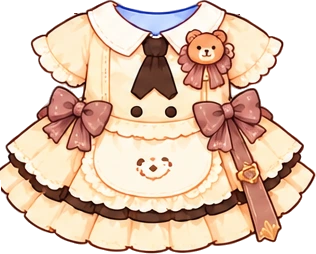
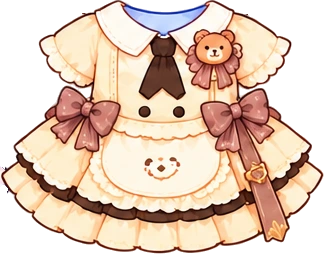
Remove pink heart and blue rose sets; fix bear maid left skirt
Claude-Session: https://claude.ai/code/session_01R3m8MAFkhgnU4D5f6BKp5W

diff --git a/index.html b/index.html
@@ -901,7 +901,7 @@ DISHES.forEach(function(d){ for(var st=1;st<=3;st++){ var x=STAR_X[st];
 var SHOP = [];
 /* 이미지로 만든 아이템: {id,name,slot,tier,cost,file:'assets/items/id.webp',box:[x,y,w,h]} 를 여기에 추가하면
    뽑기·꾸미기·도감에 자동으로 들어가요. box는 캔버스(640x520) 좌표, vb는 box 와 같아요. */
-var IMG_ITEMS = [{"id": "ribbon", "name": "빨간 리본", "slot": "side", "tier": 0, "cost": 8, "file": "assets/items/ribbon.webp", "box": [374.5, 56.1, 125, 71.7]}, {"id": "flower", "name": "꽃 핀", "slot": "side", "tier": 0, "cost": 12, "file": "assets/items/flower.webp", "box": [152.5, 43.1, 105, 97.7]}, {"id": "sprout", "name": "새싹 핀", "slot": "side", "tier": 0, "cost": 8, "file": "assets/items/sprout.webp", "box": [382.0, 53.3, 110, 77.5]}, {"id": "heart", "name": "하트 핀", "slot": "side", "tier": 0, "cost": 10, "file": "assets/items/heart.webp", "box": [383.0, 46.8, 108, 90.4]}, {"id": "star", "name": "별 핀", "slot": "side", "tier": 0, "cost": 10, "file": "assets/items/star.webp", "box": [383.0, 37.5, 108, 108.9]}, {"id": "cloudbow", "name": "구름 무지개 핀", "slot": "side", "tier": 0, "cost": 12, "file": "assets/items/cloudbow.webp", "box": [377.0, 51.8, 120, 80.5]}, {"id": "cherry", "name": "체리 핀", "slot": "side", "tier": 0, "cost": 12, "file": "assets/items/cherry.webp", "box": [387.0, 42.4, 100, 99.2]}, {"id": "glasses", "name": "동그란 안경", "slot": "face", "tier": 1, "cost": 15, "file": "assets/items/glasses.webp", "box": [143.5, 166.3, 355, 147.4]}, {"id": "scarf", "name": "따뜻한 목도리", "slot": "neck", "tier": 1, "cost": 20, "file": "assets/items/scarf.webp", "box": [179.5, 318.9, 285, 178.3]}, {"id": "hat", "name": "파티 모자", "slot": "head", "tier": 1, "cost": 25, "file": "assets/items/hat.webp", "box": [250.0, -80.1, 140, 168.1]}, {"id": "wingpin", "name": "날개 핀", "slot": "side", "tier": 1, "cost": 18, "file": "assets/items/wingpin.webp", "box": [379.5, 46.4, 115, 91.1]}, {"id": "purplebow", "name": "보라 리본 핀", "slot": "side", "tier": 1, "cost": 15, "file": "assets/items/purplebow.webp", "box": [377.0, 50.1, 120, 83.8]}, {"id": "lacebow", "name": "레이스 리본 핀", "slot": "side", "tier": 1, "cost": 18, "file": "assets/items/lacebow.webp", "box": [379.5, 38.0, 115, 108.1]}, {"id": "snow", "name": "눈꽃 핀", "slot": "side", "tier": 1, "cost": 20, "file": "assets/items/snow.webp", "box": [387.0, 48.3, 100, 87.4]}, {"id": "moon", "name": "달별 핀", "slot": "side", "tier": 1, "cost": 22, "file": "assets/items/moon.webp", "box": [382.0, 39.7, 110, 104.6]}, {"id": "crown", "name": "반짝 왕관", "slot": "head", "tier": 2, "cost": 0, "file": "assets/items/crown.webp", "box": [230.0, -37.8, 180, 127.8]}, {"id": "wizard", "name": "별 마법사 모자", "slot": "head", "tier": 2, "cost": 0, "file": "assets/items/wizard.webp", "box": [177.0, -77.3, 290, 189.3]}, {"id": "starwing", "name": "별무지개 날개 머리띠", "slot": "head", "tier": 2, "cost": 0, "file": "assets/items/starwing.webp", "box": [165.0, 28.9, 310, 134.2]}, {"id": "nightcap", "name": "꿀잠 모자", "slot": "head", "tier": 2, "cost": 0, "file": "assets/items/nightcap.webp", "box": [192.0, 9.8, 260, 180.4]}, {"id": "maid", "name": "프릴 리본 머리띠", "slot": "head", "tier": 2, "cost": 0, "file": "assets/items/maid.webp", "box": [190.0, 19.6, 260, 156.9]}, {"id": "angel", "name": "천사 날개 후광", "slot": "head", "tier": 3, "cost": 0, "file": "assets/items/angel.webp", "box": [150.0, 6.4, 340, 177.1]}, {"id": "bat", "name": "박쥐 날개", "slot": "head", "tier": 3, "cost": 0, "file": "assets/items/bat.webp", "box": [165.0, 48.5, 310, 127.1]}, {"id": "wreath", "name": "꽃 화관", "slot": "head", "tier": 3, "cost": 0, "file": "assets/items/wreath.webp", "box": [180.0, 19.0, 280, 162.0]}, {"id": "tiara", "name": "날개 티아라", "slot": "head", "tier": 3, "cost": 0, "file": "assets/items/tiara.webp", "box": [195.0, 18.6, 250, 146.9]}, {"id": "galaxy", "name": "은하수 머리띠", "slot": "head", "tier": 3, "cost": 0, "file": "assets/items/galaxy.webp", "box": [160.0, 23.2, 320, 161.5]}, {"id": "broom", "name": "빗자루", "slot": "hand", "tier": 0, "cost": 14, "file": "assets/items/broom.webp", "box": [401.6, 283, 100.8, 230]}, {"id": "drink", "name": "음료수", "slot": "hand", "tier": 0, "cost": 10, "file": "assets/items/drink.webp", "box": [136.2, 332, 97.6, 162]}, {"id": "schoolbag", "name": "학교가방", "slot": "hand", "tier": 0, "cost": 16, "file": "assets/items/schoolbag.webp", "box": [383.0, 392, 133.0, 140]}, {"id": "slime", "name": "슬라임", "slot": "hand", "tier": 1, "cost": 18, "file": "assets/items/slime.webp", "box": [108.0, 331.1, 154, 116.8]}, {"id": "gameboy", "name": "휴대용 게임기", "slot": "hand", "tier": 1, "cost": 24, "file": "assets/items/gameboy.webp", "box": [222.0, 359.4, 195, 109.1]}, {"id": "bananadoll", "name": "바나나 애착인형", "slot": "hand", "tier": 2, "cost": 0, "file": "assets/items/bananadoll.webp", "box": [48, 342, 130, 149.5]}, {"id": "elephantdoll", "name": "코끼리 애착인형", "slot": "hand", "tier": 2, "cost": 0, "file": "assets/items/elephantdoll.webp", "box": [385.0, 321.0, 160, 148.7]}, {"id": "tshirt", "name": "줄무늬 티셔츠", "slot": "outfit", "tier": 0, "cost": 14, "file": "assets/items/tshirt.webp", "box": [200.0, 328, 240, 131.0]}, {"id": "overalls", "name": "멜빵바지", "slot": "outfit", "tier": 0, "cost": 16, "file": "assets/items/overalls.webp", "box": [200.0, 328, 240, 177.4]}, {"id": "dress", "name": "분홍 원피스", "slot": "outfit", "tier": 1, "cost": 26, "file": "assets/items/dress.webp", "box": [200.0, 328, 240, 131.7]}, {"id": "hanbok", "name": "한복", "slot": "outfit", "tier": 1, "cost": 30, "file": "assets/items/hanbok.webp", "box": [200.0, 328, 240, 139.9]}, {"id": "uniform", "name": "세일러 교복", "slot": "outfit", "tier": 1, "cost": 28, "file": "assets/items/uniform.webp", "box": [200.0, 328, 240, 146.9]}, {"id": "cape", "name": "별빛 마법 망토", "slot": "outfit", "tier": 2, "cost": 0, "file": "assets/items/cape.webp", "box": [200.0, 365, 240, 138.0]}, {"id": "princess", "name": "공주 드레스", "slot": "outfit", "tier": 2, "cost": 0, "file": "assets/items/princess.webp", "box": [200.0, 328, 240, 157.7]}, {"id": "spacesuit", "name": "우주복", "slot": "outfit", "tier": 3, "cost": 0, "file": "assets/items/spacesuit.webp", "box": [200.0, 328, 240, 121.6]}, {"id": "heartphones", "name": "하트 헤드폰", "slot": "head", "tier": 1, "cost": 22, "file": "assets/items/heartphones.webp", "box": [82, -12, 476, 273.0]}, {"id": "nursehat", "name": "간호사 모자", "slot": "head", "tier": 0, "cost": 14, "file": "assets/items/nursehat.webp", "box": [215, 14, 210, 102.6]}, {"id": "nursedress", "name": "간호사복", "slot": "outfit", "tier": 1, "cost": 28, "file": "assets/items/nursedress.webp", "box": [180.0, 318, 280, 206.6]}, {"id": "pancake", "name": "팬케이크", "slot": "hand", "tier": 1, "cost": 18, "file": "assets/items/pancake.webp", "box": [110, 335, 150, 121.7]}, {"id": "chocochip", "name": "초코칩", "slot": "hand", "tier": 0, "cost": 12, "file": "assets/items/chocochip.webp", "box": [130, 340, 100, 101.5]}, {"id": "elephantwings", "name": "코끼리 날개", "slot": "back", "tier": 1, "cost": 32, "file": "assets/items/elephantwings.webp", "box": [-30.0, 205, 700, 321.4]}, {"id": "angelwings", "name": "천사 날개", "slot": "back", "tier": 1, "cost": 34, "file": "assets/items/angelwings.webp", "box": [-30.0, 205, 700, 269.5]}, {"id": "demonwings", "name": "악마 날개", "slot": "back", "tier": 1, "cost": 34, "file": "assets/items/demonwings.webp", "box": [-30.0, 205, 700, 300.2]}, {"id": "rainbowwings", "name": "무지개 날개", "slot": "back", "tier": 2, "cost": 0, "file": "assets/items/rainbowwings.webp", "box": [-30.0, 205, 700, 312.6]}, {"id": "butterflywings", "name": "나비 날개", "slot": "back", "tier": 0, "cost": 24, "file": "assets/items/butterflywings.webp", "box": [-30.0, 205, 700, 313.3]}, {"id": "fairywings", "name": "요정 날개", "slot": "back", "tier": 1, "cost": 30, "file": "assets/items/fairywings.webp", "box": [-30.0, 205, 700, 358.8]}, {"id": "crystalwings", "name": "크리스탈 날개", "slot": "back", "tier": 2, "cost": 0, "file": "assets/items/crystalwings.webp", "box": [-30.0, 205, 700, 354.4]}, {"id": "starwings", "name": "별빛 날개", "slot": "back", "tier": 2, "cost": 0, "file": "assets/items/starwings.webp", "box": [-30.0, 205, 700, 348.6]}, {"id": "naturewings", "name": "자연 날개", "slot": "back", "tier": 1, "cost": 30, "file": "assets/items/naturewings.webp", "box": [-30.0, 205, 700, 350.8]}, {"id": "nheart", "name": "하트 멜빵 반바지", "slot": "outfit", "tier": 0, "cost": 16, "file": "assets/items/nheart.webp", "box": [180.0, 318, 280, 210.6]}, {"id": "nribbon", "name": "분홍 리본 원피스", "slot": "outfit", "tier": 1, "cost": 26, "file": "assets/items/nribbon.webp", "box": [180.0, 318, 280, 192.7]}, {"id": "ndaisy", "name": "노랑 데이지 원피스", "slot": "outfit", "tier": 1, "cost": 28, "file": "assets/items/ndaisy.webp", "box": [180.0, 318, 280, 200.4]}, {"id": "nstrawb", "name": "딸기 레이스 원피스", "slot": "outfit", "tier": 1, "cost": 28, "file": "assets/items/nstrawb.webp", "box": [180.0, 318, 280, 188.6]}, {"id": "nsailor", "name": "곰돌이 세일러복", "slot": "outfit", "tier": 0, "cost": 18, "file": "assets/items/nsailor.webp", "box": [180.0, 318, 280, 205.2]}, {"id": "nbeartan", "name": "갈색 리본 곰돌이옷", "slot": "outfit", "tier": 1, "cost": 26, "file": "assets/items/nbeartan.webp", "box": [180.0, 318, 280, 209.0]}, {"id": "nrose", "name": "장미 꽃무늬 원피스", "slot": "outfit", "tier": 1, "cost": 26, "file": "assets/items/nrose.webp", "box": [180.0, 318, 280, 195.0]}, {"id": "nbearblue", "name": "곰돌이 파랑 멜빵", "slot": "outfit", "tier": 0, "cost": 18, "file": "assets/items/nbearblue.webp", "box": [180.0, 318, 280, 209.6]}, {"id": "nstar", "name": "별빛 망토", "slot": "outfit", "tier": 2, "cost": 0, "file": "assets/items/nstar.webp", "box": [180.0, 318, 280, 204.7]}, {"id": "nsnow", "name": "눈꽃 망토", "slot": "outfit", "tier": 2, "cost": 0, "file": "assets/items/nsnow.webp", "box": [180.0, 318, 280, 193.8]}, {"id": "nprince", "name": "왕자님 정복", "slot": "outfit", "tier": 2, "cost": 0, "file": "assets/items/nprince.webp", "box": [180.0, 318, 280, 211.5]}, {"id": "nbat", "name": "박쥐 망토", "slot": "outfit", "tier": 3, "cost": 0, "file": "assets/items/nbat.webp", "box": [180.0, 318, 280, 207.8]}, {"id": "mpink", "name": "핑크 하트 멜빵", "slot": "outfit", "tier": 0, "cost": 16, "file": "assets/items/mpink.webp", "box": [180.0, 318, 280, 226.8]}, {"id": "myellow", "name": "노랑 데이지 리본 원피스", "slot": "outfit", "tier": 1, "cost": 26, "file": "assets/items/myellow.webp", "box": [180.0, 318, 280, 197.4]}, {"id": "manchor", "name": "닻 세일러 원피스", "slot": "outfit", "tier": 0, "cost": 18, "file": "assets/items/manchor.webp", "box": [180.0, 318, 280, 206.7]}, {"id": "mstrawchk", "name": "딸기 체크 원피스", "slot": "outfit", "tier": 1, "cost": 28, "file": "assets/items/mstrawchk.webp", "box": [180.0, 318, 280, 196.1]}, {"id": "mdenim", "name": "별 청멜빵 반바지", "slot": "outfit", "tier": 0, "cost": 16, "file": "assets/items/mdenim.webp", "box": [180.0, 318, 280, 213.6]}, {"id": "mlavender", "name": "라벤더 프릴 원피스", "slot": "outfit", "tier": 1, "cost": 28, "file": "assets/items/mlavender.webp", "box": [180.0, 318, 280, 197.1]}, {"id": "mbearcream", "name": "곰돌이 크림 멜빵", "slot": "outfit", "tier": 1, "cost": 26, "file": "assets/items/mbearcream.webp", "box": [180.0, 318, 280, 215.8]}, {"id": "mmint", "name": "민트 클로버 원피스", "slot": "outfit", "tier": 1, "cost": 26, "file": "assets/items/mmint.webp", "box": [180.0, 318, 280, 202.9]}, {"id": "mcloud", "name": "구름 리본 원피스", "slot": "outfit", "tier": 1, "cost": 26, "file": "assets/items/mcloud.webp", "box": [180.0, 318, 280, 205.4]}, {"id": "mbee", "name": "꿀벌 멜빵", "slot": "outfit", "tier": 2, "cost": 0, "file": "assets/items/mbee.webp", "box": [180.0, 318, 280, 232.5]}, {"id": "mpearl", "name": "진주 하트 원피스", "slot": "outfit", "tier": 2, "cost": 0, "file": "assets/items/mpearl.webp", "box": [160.0, 318, 280, 214.0]}, {"id": "mnavy", "name": "달별 네이비 정복", "slot": "outfit", "tier": 3, "cost": 0, "file": "assets/items/mnavy.webp", "box": [180.0, 318, 280, 211.5]}, {"id": "psakura", "name": "벚꽃 원피스", "slot": "outfit", "tier": 1, "cost": 26, "file": "assets/items/psakura.webp", "box": [180.0, 328, 280, 217.5]}, {"id": "palice", "name": "앨리스 원피스", "slot": "outfit", "tier": 2, "cost": 0, "file": "assets/items/palice.webp", "box": [180.0, 328, 280, 222.2]}, {"id": "ppicnic", "name": "체크 피크닉 원피스", "slot": "outfit", "tier": 1, "cost": 28, "file": "assets/items/ppicnic.webp", "box": [180.0, 328, 280, 222.3]}, {"id": "pballet", "name": "발레코어 원피스", "slot": "outfit", "tier": 1, "cost": 28, "file": "assets/items/pballet.webp", "box": [180.0, 328, 280, 206.8]}, {"id": "pangel", "name": "천사 원피스", "slot": "outfit", "tier": 2, "cost": 0, "file": "assets/items/pangel.webp", "box": [160.0, 328, 280, 206.5]}, {"id": "pwedding", "name": "웨딩 드레스", "slot": "outfit", "tier": 3, "cost": 0, "file": "assets/items/pwedding.webp", "box": [180.0, 328, 280, 213.9]}, {"id": "pbee", "name": "꿀벌 원피스", "slot": "outfit", "tier": 1, "cost": 26, "file": "assets/items/pbee.webp", "box": [180.0, 328, 280, 236.0]}, {"id": "pfrog", "name": "개구리 멜빵", "slot": "outfit", "tier": 0, "cost": 18, "file": "assets/items/pfrog.webp", "box": [180.0, 328, 280, 214.2]}, {"id": "pcherry", "name": "체리 원피스", "slot": "outfit", "tier": 1, "cost": 28, "file": "assets/items/pcherry.webp", "box": [180.0, 328, 280, 228.3]}, {"id": "pcloudstar", "name": "구름별 원피스", "slot": "outfit", "tier": 2, "cost": 0, "file": "assets/items/pcloudstar.webp", "box": [180.0, 328, 280, 234.1]}, {"id": "pgoth", "name": "고딕 로리타", "slot": "outfit", "tier": 2, "cost": 0, "file": "assets/items/pgoth.webp", "box": [180.0, 328, 280, 230.8]}, {"id": "pxmas", "name": "크리스마스 원피스", "slot": "outfit", "tier": 3, "cost": 0, "file": "assets/items/pxmas.webp", "box": [180.0, 328, 280, 219.7]}, {"id": "kblackdress", "name": "검정 칼라 원피스", "slot": "outfit", "tier": 1, "cost": 26, "file": "assets/items/kblackdress.webp", "box": [160.0, 318, 280, 160.0]}, {"id": "kplaid", "name": "회색 체크 원피스", "slot": "outfit", "tier": 1, "cost": 28, "file": "assets/items/kplaid.webp", "box": [160.0, 318, 280, 171.7]}, {"id": "kapple", "name": "사과 빨강 원피스", "slot": "outfit", "tier": 1, "cost": 28, "file": "assets/items/kapple.webp", "box": [160.0, 318, 280, 173.8]}, {"id": "kwhite", "name": "흰 레이스 원피스", "slot": "outfit", "tier": 1, "cost": 26, "file": "assets/items/kwhite.webp", "box": [160.0, 318, 280, 177.1]}, {"id": "kgreen", "name": "그린 멜빵 원피스", "slot": "outfit", "tier": 1, "cost": 26, "file": "assets/items/kgreen.webp", "box": [160.0, 318, 280, 178.8]}, {"id": "kberet", "name": "빨간 베레모", "slot": "head", "tier": 1, "cost": 24, "file": "assets/items/kberet.webp", "box": [215, 8, 180, 103.0]}, {"id": "kblackbow", "name": "검정 리본", "slot": "head", "tier": 0, "cost": 12, "file": "assets/items/kblackbow.webp", "box": [335, 18, 95, 68.1]}, {"id": "kwhitebow", "name": "흰 리본", "slot": "head", "tier": 0, "cost": 12, "file": "assets/items/kwhitebow.webp", "box": [335, 18, 95, 68.1]}, {"id": "kpolice", "name": "경찰복", "slot": "outfit", "tier": 1, "cost": 28, "file": "assets/items/kpolice.webp", "box": [160.0, 318, 280, 211.4]}, {"id": "kpolicehat", "name": "경찰모", "slot": "head", "tier": 1, "cost": 26, "file": "assets/items/kpolicehat.webp", "box": [240.0, 19.6, 160, 95.4]}, {"id": "hnapple", "name": "빨간 사과 베레모", "slot": "head", "tier": 1, "cost": 22, "file": "assets/items/hnapple.webp", "box": [195.0, 30, 250, 128.4]}, {"id": "hngreen", "name": "초록 리본 머리띠", "slot": "head", "tier": 1, "cost": 24, "file": "assets/items/hngreen.webp", "box": [195.0, 30, 250, 106.6]}, {"id": "hnhood", "name": "검정 레이스 후드", "slot": "head", "tier": 2, "cost": 0, "file": "assets/items/hnhood.webp", "box": [195.0, 30, 250, 131.9]}, {"id": "hnhanbok", "name": "하늘 꽃 리본", "slot": "head", "tier": 2, "cost": 0, "file": "assets/items/hnhanbok.webp", "box": [195.0, 30, 250, 132.7]}, {"id": "hnheart", "name": "분홍 하트 리본 띠", "slot": "head", "tier": 1, "cost": 24, "file": "assets/items/hnheart.webp", "box": [195.0, 30, 250, 116.9]}, {"id": "hnrose", "name": "파란 장미 꽃 머리띠", "slot": "head", "tier": 2, "cost": 0, "file": "assets/items/hnrose.webp", "box": [195.0, 30, 250, 110.5]}, {"id": "hnsky", "name": "하늘 큰 리본 핀", "slot": "head", "tier": 1, "cost": 22, "file": "assets/items/hnsky.webp", "box": [195.0, 30, 250, 121.8]}, {"id": "hnbear", "name": "곰돌이 갈색 머리띠", "slot": "head", "tier": 1, "cost": 24, "file": "assets/items/hnbear.webp", "box": [195.0, 30, 250, 121.4]}, {"id": "hnclown", "name": "별 광대 베레", "slot": "head", "tier": 1, "cost": 22, "file": "assets/items/hnclown.webp", "box": [195.0, 30, 250, 123.4]}, {"id": "hnnurse", "name": "간호사 모자", "slot": "head", "tier": 1, "cost": 24, "file": "assets/items/hnnurse.webp", "box": [195.0, 30, 250, 107.8]}, {"id": "qnapple", "name": "사과 멜빵 반바지", "slot": "outfit", "tier": 1, "cost": 26, "file": "assets/items/qnapple.webp", "box": [176.2, 318, 287.5, 230.0]}, {"id": "qngreen", "name": "초록 코르셋 원피스", "slot": "outfit", "tier": 1, "cost": 28, "file": "assets/items/qngreen.webp", "box": [173.3, 318, 293.3, 230.0]}, {"id": "qnhood", "name": "보라 하트 고딕 원피스", "slot": "outfit", "tier": 2, "cost": 0, "file": "assets/items/qnhood.webp", "box": [170.0, 318, 300, 222.8]}, {"id": "qnhanbok", "name": "하늘 한복", "slot": "outfit", "tier": 2, "cost": 0, "file": "assets/items/qnhanbok.webp", "box": [173.1, 318, 293.8, 230.0]}, {"id": "qnleather", "name": "검정 가죽 재킷", "slot": "outfit", "tier": 2, "cost": 0, "file": "assets/items/qnleather.webp", "box": [181.6, 318, 276.9, 230.0]}, {"id": "qnpurple", "name": "검정 보라 하트 원피스", "slot": "outfit", "tier": 1, "cost": 28, "file": "assets/items/qnpurple.webp", "box": [171.6, 318, 296.8, 230.0]}, {"id": "qnplaid", "name": "체크 곰돌이 원피스", "slot": "outfit", "tier": 1, "cost": 26, "file": "assets/items/qnplaid.webp", "box": [174.1, 318, 291.9, 230.0]}, {"id": "qnheart", "name": "분홍 하트 원피스", "slot": "outfit", "tier": 1, "cost": 28, "file": "assets/items/qnheart.webp", "box": [170.0, 318, 300, 203.0]}, {"id": "qnrose", "name": "파란 장미 레이스 원피스", "slot": "outfit", "tier": 2, "cost": 0, "file": "assets/items/qnrose.webp", "box": [170.0, 318, 300, 214.6]}, {"id": "qnbear", "name": "곰돌이 크림 메이드", "slot": "outfit", "tier": 1, "cost": 26, "file": "assets/items/qnbear.webp", "box": [176.9, 318, 286.1, 230.0]}, {"id": "qnclown", "name": "빨강 파랑 광대 멜빵", "slot": "outfit", "tier": 1, "cost": 26, "file": "assets/items/qnclown.webp", "box": [184.6, 318, 270.8, 230.0]}, {"id": "qnnurse", "name": "간호사 원피스", "slot": "outfit", "tier": 1, "cost": 28, "file": "assets/items/qnnurse.webp", "box": [170.0, 318, 300, 221.4]}];
+var IMG_ITEMS = [{"id": "ribbon", "name": "빨간 리본", "slot": "side", "tier": 0, "cost": 8, "file": "assets/items/ribbon.webp", "box": [374.5, 56.1, 125, 71.7]}, {"id": "flower", "name": "꽃 핀", "slot": "side", "tier": 0, "cost": 12, "file": "assets/items/flower.webp", "box": [152.5, 43.1, 105, 97.7]}, {"id": "sprout", "name": "새싹 핀", "slot": "side", "tier": 0, "cost": 8, "file": "assets/items/sprout.webp", "box": [382.0, 53.3, 110, 77.5]}, {"id": "heart", "name": "하트 핀", "slot": "side", "tier": 0, "cost": 10, "file": "assets/items/heart.webp", "box": [383.0, 46.8, 108, 90.4]}, {"id": "star", "name": "별 핀", "slot": "side", "tier": 0, "cost": 10, "file": "assets/items/star.webp", "box": [383.0, 37.5, 108, 108.9]}, {"id": "cloudbow", "name": "구름 무지개 핀", "slot": "side", "tier": 0, "cost": 12, "file": "assets/items/cloudbow.webp", "box": [377.0, 51.8, 120, 80.5]}, {"id": "cherry", "name": "체리 핀", "slot": "side", "tier": 0, "cost": 12, "file": "assets/items/cherry.webp", "box": [387.0, 42.4, 100, 99.2]}, {"id": "glasses", "name": "동그란 안경", "slot": "face", "tier": 1, "cost": 15, "file": "assets/items/glasses.webp", "box": [143.5, 166.3, 355, 147.4]}, {"id": "scarf", "name": "따뜻한 목도리", "slot": "neck", "tier": 1, "cost": 20, "file": "assets/items/scarf.webp", "box": [179.5, 318.9, 285, 178.3]}, {"id": "hat", "name": "파티 모자", "slot": "head", "tier": 1, "cost": 25, "file": "assets/items/hat.webp", "box": [250.0, -80.1, 140, 168.1]}, {"id": "wingpin", "name": "날개 핀", "slot": "side", "tier": 1, "cost": 18, "file": "assets/items/wingpin.webp", "box": [379.5, 46.4, 115, 91.1]}, {"id": "purplebow", "name": "보라 리본 핀", "slot": "side", "tier": 1, "cost": 15, "file": "assets/items/purplebow.webp", "box": [377.0, 50.1, 120, 83.8]}, {"id": "lacebow", "name": "레이스 리본 핀", "slot": "side", "tier": 1, "cost": 18, "file": "assets/items/lacebow.webp", "box": [379.5, 38.0, 115, 108.1]}, {"id": "snow", "name": "눈꽃 핀", "slot": "side", "tier": 1, "cost": 20, "file": "assets/items/snow.webp", "box": [387.0, 48.3, 100, 87.4]}, {"id": "moon", "name": "달별 핀", "slot": "side", "tier": 1, "cost": 22, "file": "assets/items/moon.webp", "box": [382.0, 39.7, 110, 104.6]}, {"id": "crown", "name": "반짝 왕관", "slot": "head", "tier": 2, "cost": 0, "file": "assets/items/crown.webp", "box": [230.0, -37.8, 180, 127.8]}, {"id": "wizard", "name": "별 마법사 모자", "slot": "head", "tier": 2, "cost": 0, "file": "assets/items/wizard.webp", "box": [177.0, -77.3, 290, 189.3]}, {"id": "starwing", "name": "별무지개 날개 머리띠", "slot": "head", "tier": 2, "cost": 0, "file": "assets/items/starwing.webp", "box": [165.0, 28.9, 310, 134.2]}, {"id": "nightcap", "name": "꿀잠 모자", "slot": "head", "tier": 2, "cost": 0, "file": "assets/items/nightcap.webp", "box": [192.0, 9.8, 260, 180.4]}, {"id": "maid", "name": "프릴 리본 머리띠", "slot": "head", "tier": 2, "cost": 0, "file": "assets/items/maid.webp", "box": [190.0, 19.6, 260, 156.9]}, {"id": "angel", "name": "천사 날개 후광", "slot": "head", "tier": 3, "cost": 0, "file": "assets/items/angel.webp", "box": [150.0, 6.4, 340, 177.1]}, {"id": "bat", "name": "박쥐 날개", "slot": "head", "tier": 3, "cost": 0, "file": "assets/items/bat.webp", "box": [165.0, 48.5, 310, 127.1]}, {"id": "wreath", "name": "꽃 화관", "slot": "head", "tier": 3, "cost": 0, "file": "assets/items/wreath.webp", "box": [180.0, 19.0, 280, 162.0]}, {"id": "tiara", "name": "날개 티아라", "slot": "head", "tier": 3, "cost": 0, "file": "assets/items/tiara.webp", "box": [195.0, 18.6, 250, 146.9]}, {"id": "galaxy", "name": "은하수 머리띠", "slot": "head", "tier": 3, "cost": 0, "file": "assets/items/galaxy.webp", "box": [160.0, 23.2, 320, 161.5]}, {"id": "broom", "name": "빗자루", "slot": "hand", "tier": 0, "cost": 14, "file": "assets/items/broom.webp", "box": [401.6, 283, 100.8, 230]}, {"id": "drink", "name": "음료수", "slot": "hand", "tier": 0, "cost": 10, "file": "assets/items/drink.webp", "box": [136.2, 332, 97.6, 162]}, {"id": "schoolbag", "name": "학교가방", "slot": "hand", "tier": 0, "cost": 16, "file": "assets/items/schoolbag.webp", "box": [383.0, 392, 133.0, 140]}, {"id": "slime", "name": "슬라임", "slot": "hand", "tier": 1, "cost": 18, "file": "assets/items/slime.webp", "box": [108.0, 331.1, 154, 116.8]}, {"id": "gameboy", "name": "휴대용 게임기", "slot": "hand", "tier": 1, "cost": 24, "file": "assets/items/gameboy.webp", "box": [222.0, 359.4, 195, 109.1]}, {"id": "bananadoll", "name": "바나나 애착인형", "slot": "hand", "tier": 2, "cost": 0, "file": "assets/items/bananadoll.webp", "box": [48, 342, 130, 149.5]}, {"id": "elephantdoll", "name": "코끼리 애착인형", "slot": "hand", "tier": 2, "cost": 0, "file": "assets/items/elephantdoll.webp", "box": [385.0, 321.0, 160, 148.7]}, {"id": "tshirt", "name": "줄무늬 티셔츠", "slot": "outfit", "tier": 0, "cost": 14, "file": "assets/items/tshirt.webp", "box": [200.0, 328, 240, 131.0]}, {"id": "overalls", "name": "멜빵바지", "slot": "outfit", "tier": 0, "cost": 16, "file": "assets/items/overalls.webp", "box": [200.0, 328, 240, 177.4]}, {"id": "dress", "name": "분홍 원피스", "slot": "outfit", "tier": 1, "cost": 26, "file": "assets/items/dress.webp", "box": [200.0, 328, 240, 131.7]}, {"id": "hanbok", "name": "한복", "slot": "outfit", "tier": 1, "cost": 30, "file": "assets/items/hanbok.webp", "box": [200.0, 328, 240, 139.9]}, {"id": "uniform", "name": "세일러 교복", "slot": "outfit", "tier": 1, "cost": 28, "file": "assets/items/uniform.webp", "box": [200.0, 328, 240, 146.9]}, {"id": "cape", "name": "별빛 마법 망토", "slot": "outfit", "tier": 2, "cost": 0, "file": "assets/items/cape.webp", "box": [200.0, 365, 240, 138.0]}, {"id": "princess", "name": "공주 드레스", "slot": "outfit", "tier": 2, "cost": 0, "file": "assets/items/princess.webp", "box": [200.0, 328, 240, 157.7]}, {"id": "spacesuit", "name": "우주복", "slot": "outfit", "tier": 3, "cost": 0, "file": "assets/items/spacesuit.webp", "box": [200.0, 328, 240, 121.6]}, {"id": "heartphones", "name": "하트 헤드폰", "slot": "head", "tier": 1, "cost": 22, "file": "assets/items/heartphones.webp", "box": [82, -12, 476, 273.0]}, {"id": "nursehat", "name": "간호사 모자", "slot": "head", "tier": 0, "cost": 14, "file": "assets/items/nursehat.webp", "box": [215, 14, 210, 102.6]}, {"id": "nursedress", "name": "간호사복", "slot": "outfit", "tier": 1, "cost": 28, "file": "assets/items/nursedress.webp", "box": [180.0, 318, 280, 206.6]}, {"id": "pancake", "name": "팬케이크", "slot": "hand", "tier": 1, "cost": 18, "file": "assets/items/pancake.webp", "box": [110, 335, 150, 121.7]}, {"id": "chocochip", "name": "초코칩", "slot": "hand", "tier": 0, "cost": 12, "file": "assets/items/chocochip.webp", "box": [130, 340, 100, 101.5]}, {"id": "elephantwings", "name": "코끼리 날개", "slot": "back", "tier": 1, "cost": 32, "file": "assets/items/elephantwings.webp", "box": [-30.0, 205, 700, 321.4]}, {"id": "angelwings", "name": "천사 날개", "slot": "back", "tier": 1, "cost": 34, "file": "assets/items/angelwings.webp", "box": [-30.0, 205, 700, 269.5]}, {"id": "demonwings", "name": "악마 날개", "slot": "back", "tier": 1, "cost": 34, "file": "assets/items/demonwings.webp", "box": [-30.0, 205, 700, 300.2]}, {"id": "rainbowwings", "name": "무지개 날개", "slot": "back", "tier": 2, "cost": 0, "file": "assets/items/rainbowwings.webp", "box": [-30.0, 205, 700, 312.6]}, {"id": "butterflywings", "name": "나비 날개", "slot": "back", "tier": 0, "cost": 24, "file": "assets/items/butterflywings.webp", "box": [-30.0, 205, 700, 313.3]}, {"id": "fairywings", "name": "요정 날개", "slot": "back", "tier": 1, "cost": 30, "file": "assets/items/fairywings.webp", "box": [-30.0, 205, 700, 358.8]}, {"id": "crystalwings", "name": "크리스탈 날개", "slot": "back", "tier": 2, "cost": 0, "file": "assets/items/crystalwings.webp", "box": [-30.0, 205, 700, 354.4]}, {"id": "starwings", "name": "별빛 날개", "slot": "back", "tier": 2, "cost": 0, "file": "assets/items/starwings.webp", "box": [-30.0, 205, 700, 348.6]}, {"id": "naturewings", "name": "자연 날개", "slot": "back", "tier": 1, "cost": 30, "file": "assets/items/naturewings.webp", "box": [-30.0, 205, 700, 350.8]}, {"id": "nheart", "name": "하트 멜빵 반바지", "slot": "outfit", "tier": 0, "cost": 16, "file": "assets/items/nheart.webp", "box": [180.0, 318, 280, 210.6]}, {"id": "nribbon", "name": "분홍 리본 원피스", "slot": "outfit", "tier": 1, "cost": 26, "file": "assets/items/nribbon.webp", "box": [180.0, 318, 280, 192.7]}, {"id": "ndaisy", "name": "노랑 데이지 원피스", "slot": "outfit", "tier": 1, "cost": 28, "file": "assets/items/ndaisy.webp", "box": [180.0, 318, 280, 200.4]}, {"id": "nstrawb", "name": "딸기 레이스 원피스", "slot": "outfit", "tier": 1, "cost": 28, "file": "assets/items/nstrawb.webp", "box": [180.0, 318, 280, 188.6]}, {"id": "nsailor", "name": "곰돌이 세일러복", "slot": "outfit", "tier": 0, "cost": 18, "file": "assets/items/nsailor.webp", "box": [180.0, 318, 280, 205.2]}, {"id": "nbeartan", "name": "갈색 리본 곰돌이옷", "slot": "outfit", "tier": 1, "cost": 26, "file": "assets/items/nbeartan.webp", "box": [180.0, 318, 280, 209.0]}, {"id": "nrose", "name": "장미 꽃무늬 원피스", "slot": "outfit", "tier": 1, "cost": 26, "file": "assets/items/nrose.webp", "box": [180.0, 318, 280, 195.0]}, {"id": "nbearblue", "name": "곰돌이 파랑 멜빵", "slot": "outfit", "tier": 0, "cost": 18, "file": "assets/items/nbearblue.webp", "box": [180.0, 318, 280, 209.6]}, {"id": "nstar", "name": "별빛 망토", "slot": "outfit", "tier": 2, "cost": 0, "file": "assets/items/nstar.webp", "box": [180.0, 318, 280, 204.7]}, {"id": "nsnow", "name": "눈꽃 망토", "slot": "outfit", "tier": 2, "cost": 0, "file": "assets/items/nsnow.webp", "box": [180.0, 318, 280, 193.8]}, {"id": "nprince", "name": "왕자님 정복", "slot": "outfit", "tier": 2, "cost": 0, "file": "assets/items/nprince.webp", "box": [180.0, 318, 280, 211.5]}, {"id": "nbat", "name": "박쥐 망토", "slot": "outfit", "tier": 3, "cost": 0, "file": "assets/items/nbat.webp", "box": [180.0, 318, 280, 207.8]}, {"id": "mpink", "name": "핑크 하트 멜빵", "slot": "outfit", "tier": 0, "cost": 16, "file": "assets/items/mpink.webp", "box": [180.0, 318, 280, 226.8]}, {"id": "myellow", "name": "노랑 데이지 리본 원피스", "slot": "outfit", "tier": 1, "cost": 26, "file": "assets/items/myellow.webp", "box": [180.0, 318, 280, 197.4]}, {"id": "manchor", "name": "닻 세일러 원피스", "slot": "outfit", "tier": 0, "cost": 18, "file": "assets/items/manchor.webp", "box": [180.0, 318, 280, 206.7]}, {"id": "mstrawchk", "name": "딸기 체크 원피스", "slot": "outfit", "tier": 1, "cost": 28, "file": "assets/items/mstrawchk.webp", "box": [180.0, 318, 280, 196.1]}, {"id": "mdenim", "name": "별 청멜빵 반바지", "slot": "outfit", "tier": 0, "cost": 16, "file": "assets/items/mdenim.webp", "box": [180.0, 318, 280, 213.6]}, {"id": "mlavender", "name": "라벤더 프릴 원피스", "slot": "outfit", "tier": 1, "cost": 28, "file": "assets/items/mlavender.webp", "box": [180.0, 318, 280, 197.1]}, {"id": "mbearcream", "name": "곰돌이 크림 멜빵", "slot": "outfit", "tier": 1, "cost": 26, "file": "assets/items/mbearcream.webp", "box": [180.0, 318, 280, 215.8]}, {"id": "mmint", "name": "민트 클로버 원피스", "slot": "outfit", "tier": 1, "cost": 26, "file": "assets/items/mmint.webp", "box": [180.0, 318, 280, 202.9]}, {"id": "mcloud", "name": "구름 리본 원피스", "slot": "outfit", "tier": 1, "cost": 26, "file": "assets/items/mcloud.webp", "box": [180.0, 318, 280, 205.4]}, {"id": "mbee", "name": "꿀벌 멜빵", "slot": "outfit", "tier": 2, "cost": 0, "file": "assets/items/mbee.webp", "box": [180.0, 318, 280, 232.5]}, {"id": "mpearl", "name": "진주 하트 원피스", "slot": "outfit", "tier": 2, "cost": 0, "file": "assets/items/mpearl.webp", "box": [160.0, 318, 280, 214.0]}, {"id": "mnavy", "name": "달별 네이비 정복", "slot": "outfit", "tier": 3, "cost": 0, "file": "assets/items/mnavy.webp", "box": [180.0, 318, 280, 211.5]}, {"id": "psakura", "name": "벚꽃 원피스", "slot": "outfit", "tier": 1, "cost": 26, "file": "assets/items/psakura.webp", "box": [180.0, 328, 280, 217.5]}, {"id": "palice", "name": "앨리스 원피스", "slot": "outfit", "tier": 2, "cost": 0, "file": "assets/items/palice.webp", "box": [180.0, 328, 280, 222.2]}, {"id": "ppicnic", "name": "체크 피크닉 원피스", "slot": "outfit", "tier": 1, "cost": 28, "file": "assets/items/ppicnic.webp", "box": [180.0, 328, 280, 222.3]}, {"id": "pballet", "name": "발레코어 원피스", "slot": "outfit", "tier": 1, "cost": 28, "file": "assets/items/pballet.webp", "box": [180.0, 328, 280, 206.8]}, {"id": "pangel", "name": "천사 원피스", "slot": "outfit", "tier": 2, "cost": 0, "file": "assets/items/pangel.webp", "box": [160.0, 328, 280, 206.5]}, {"id": "pwedding", "name": "웨딩 드레스", "slot": "outfit", "tier": 3, "cost": 0, "file": "assets/items/pwedding.webp", "box": [180.0, 328, 280, 213.9]}, {"id": "pbee", "name": "꿀벌 원피스", "slot": "outfit", "tier": 1, "cost": 26, "file": "assets/items/pbee.webp", "box": [180.0, 328, 280, 236.0]}, {"id": "pfrog", "name": "개구리 멜빵", "slot": "outfit", "tier": 0, "cost": 18, "file": "assets/items/pfrog.webp", "box": [180.0, 328, 280, 214.2]}, {"id": "pcherry", "name": "체리 원피스", "slot": "outfit", "tier": 1, "cost": 28, "file": "assets/items/pcherry.webp", "box": [180.0, 328, 280, 228.3]}, {"id": "pcloudstar", "name": "구름별 원피스", "slot": "outfit", "tier": 2, "cost": 0, "file": "assets/items/pcloudstar.webp", "box": [180.0, 328, 280, 234.1]}, {"id": "pgoth", "name": "고딕 로리타", "slot": "outfit", "tier": 2, "cost": 0, "file": "assets/items/pgoth.webp", "box": [180.0, 328, 280, 230.8]}, {"id": "pxmas", "name": "크리스마스 원피스", "slot": "outfit", "tier": 3, "cost": 0, "file": "assets/items/pxmas.webp", "box": [180.0, 328, 280, 219.7]}, {"id": "kblackdress", "name": "검정 칼라 원피스", "slot": "outfit", "tier": 1, "cost": 26, "file": "assets/items/kblackdress.webp", "box": [160.0, 318, 280, 160.0]}, {"id": "kplaid", "name": "회색 체크 원피스", "slot": "outfit", "tier": 1, "cost": 28, "file": "assets/items/kplaid.webp", "box": [160.0, 318, 280, 171.7]}, {"id": "kapple", "name": "사과 빨강 원피스", "slot": "outfit", "tier": 1, "cost": 28, "file": "assets/items/kapple.webp", "box": [160.0, 318, 280, 173.8]}, {"id": "kwhite", "name": "흰 레이스 원피스", "slot": "outfit", "tier": 1, "cost": 26, "file": "assets/items/kwhite.webp", "box": [160.0, 318, 280, 177.1]}, {"id": "kgreen", "name": "그린 멜빵 원피스", "slot": "outfit", "tier": 1, "cost": 26, "file": "assets/items/kgreen.webp", "box": [160.0, 318, 280, 178.8]}, {"id": "kberet", "name": "빨간 베레모", "slot": "head", "tier": 1, "cost": 24, "file": "assets/items/kberet.webp", "box": [215, 8, 180, 103.0]}, {"id": "kblackbow", "name": "검정 리본", "slot": "head", "tier": 0, "cost": 12, "file": "assets/items/kblackbow.webp", "box": [335, 18, 95, 68.1]}, {"id": "kwhitebow", "name": "흰 리본", "slot": "head", "tier": 0, "cost": 12, "file": "assets/items/kwhitebow.webp", "box": [335, 18, 95, 68.1]}, {"id": "kpolice", "name": "경찰복", "slot": "outfit", "tier": 1, "cost": 28, "file": "assets/items/kpolice.webp", "box": [160.0, 318, 280, 211.4]}, {"id": "kpolicehat", "name": "경찰모", "slot": "head", "tier": 1, "cost": 26, "file": "assets/items/kpolicehat.webp", "box": [240.0, 19.6, 160, 95.4]}, {"id": "hnapple", "name": "빨간 사과 베레모", "slot": "head", "tier": 1, "cost": 22, "file": "assets/items/hnapple.webp", "box": [195.0, 30, 250, 128.4]}, {"id": "hngreen", "name": "초록 리본 머리띠", "slot": "head", "tier": 1, "cost": 24, "file": "assets/items/hngreen.webp", "box": [195.0, 30, 250, 106.6]}, {"id": "hnhood", "name": "검정 레이스 후드", "slot": "head", "tier": 2, "cost": 0, "file": "assets/items/hnhood.webp", "box": [195.0, 30, 250, 131.9]}, {"id": "hnhanbok", "name": "하늘 꽃 리본", "slot": "head", "tier": 2, "cost": 0, "file": "assets/items/hnhanbok.webp", "box": [195.0, 30, 250, 132.7]}, {"id": "hnsky", "name": "하늘 큰 리본 핀", "slot": "head", "tier": 1, "cost": 22, "file": "assets/items/hnsky.webp", "box": [195.0, 30, 250, 121.8]}, {"id": "hnbear", "name": "곰돌이 갈색 머리띠", "slot": "head", "tier": 1, "cost": 24, "file": "assets/items/hnbear.webp", "box": [195.0, 30, 250, 121.4]}, {"id": "hnclown", "name": "별 광대 베레", "slot": "head", "tier": 1, "cost": 22, "file": "assets/items/hnclown.webp", "box": [195.0, 30, 250, 123.4]}, {"id": "hnnurse", "name": "간호사 모자", "slot": "head", "tier": 1, "cost": 24, "file": "assets/items/hnnurse.webp", "box": [195.0, 30, 250, 107.8]}, {"id": "qnapple", "name": "사과 멜빵 반바지", "slot": "outfit", "tier": 1, "cost": 26, "file": "assets/items/qnapple.webp", "box": [176.2, 318, 287.5, 230.0]}, {"id": "qngreen", "name": "초록 코르셋 원피스", "slot": "outfit", "tier": 1, "cost": 28, "file": "assets/items/qngreen.webp", "box": [173.3, 318, 293.3, 230.0]}, {"id": "qnhood", "name": "보라 하트 고딕 원피스", "slot": "outfit", "tier": 2, "cost": 0, "file": "assets/items/qnhood.webp", "box": [170.0, 318, 300, 222.8]}, {"id": "qnhanbok", "name": "하늘 한복", "slot": "outfit", "tier": 2, "cost": 0, "file": "assets/items/qnhanbok.webp", "box": [173.1, 318, 293.8, 230.0]}, {"id": "qnleather", "name": "검정 가죽 재킷", "slot": "outfit", "tier": 2, "cost": 0, "file": "assets/items/qnleather.webp", "box": [181.6, 318, 276.9, 230.0]}, {"id": "qnpurple", "name": "검정 보라 하트 원피스", "slot": "outfit", "tier": 1, "cost": 28, "file": "assets/items/qnpurple.webp", "box": [171.6, 318, 296.8, 230.0]}, {"id": "qnplaid", "name": "체크 곰돌이 원피스", "slot": "outfit", "tier": 1, "cost": 26, "file": "assets/items/qnplaid.webp", "box": [174.1, 318, 291.9, 230.0]}, {"id": "qnbear", "name": "곰돌이 크림 메이드", "slot": "outfit", "tier": 1, "cost": 26, "file": "assets/items/qnbear.webp", "box": [173.3, 318, 293.4, 230.0]}, {"id": "qnclown", "name": "빨강 파랑 광대 멜빵", "slot": "outfit", "tier": 1, "cost": 26, "file": "assets/items/qnclown.webp", "box": [184.6, 318, 270.8, 230.0]}, {"id": "qnnurse", "name": "간호사 원피스", "slot": "outfit", "tier": 1, "cost": 28, "file": "assets/items/qnnurse.webp", "box": [170.0, 318, 300, 221.4]}];
 var ROOM_ITEMS = [{"id": "wall1", "name": "분홍 줄무늬 벽지", "kind": "wallpaper", "tier": 0, "file": "assets/room/wall1.webp", "w": 114, "h": 88}, {"id": "wall2", "name": "하늘 구름 벽지", "kind": "wallpaper", "tier": 0, "file": "assets/room/wall2.webp", "w": 116, "h": 88}, {"id": "wall3", "name": "노랑 별 벽지", "kind": "wallpaper", "tier": 1, "file": "assets/room/wall3.webp", "w": 116, "h": 88}, {"id": "wall4", "name": "보라 달 벽지", "kind": "wallpaper", "tier": 1, "file": "assets/room/wall4.webp", "w": 116, "h": 88}, {"id": "floor1", "name": "분홍 체크 바닥", "kind": "floor", "tier": 0, "file": "assets/room/floor1.webp", "w": 110, "h": 51}, {"id": "floor2", "name": "나무 바닥", "kind": "floor", "tier": 0, "file": "assets/room/floor2.webp", "w": 132, "h": 99}, {"id": "floor3", "name": "하얀 대리석 바닥", "kind": "floor", "tier": 1, "file": "assets/room/floor3.webp", "w": 70, "h": 59}, {"id": "floor4", "name": "초록 다다미 바닥", "kind": "floor", "tier": 1, "file": "assets/room/floor4.webp", "w": 117, "h": 55}, {"id": "bed", "name": "하트 침대", "kind": "furn", "tier": 2, "file": "assets/room/bed.webp", "w": 156, "h": 151}, {"id": "sofa", "name": "구름 소파", "kind": "furn", "tier": 2, "file": "assets/room/sofa.webp", "w": 152, "h": 121}, {"id": "bookshelf", "name": "코끼리 책장", "kind": "furn", "tier": 2, "file": "assets/room/bookshelf.webp", "w": 117, "h": 168}, {"id": "desk", "name": "공부 책상", "kind": "furn", "tier": 2, "file": "assets/room/desk.webp", "w": 182, "h": 146}, {"id": "dresser", "name": "거울 서랍장", "kind": "furn", "tier": 2, "file": "assets/room/dresser.webp", "w": 113, "h": 151}, {"id": "armchair", "name": "하트 안락의자", "kind": "furn", "tier": 1, "file": "assets/room/armchair.webp", "w": 126, "h": 127}, {"id": "curtains", "name": "분홍 커튼", "kind": "wall", "tier": 1, "file": "assets/room/curtains.webp", "w": 149, "h": 115}, {"id": "window1", "name": "둥근 창문", "kind": "wall", "tier": 1, "file": "assets/room/window1.webp", "w": 104, "h": 100}, {"id": "window2", "name": "숲 창문", "kind": "wall", "tier": 0, "file": "assets/room/window2.webp", "w": 77, "h": 83}, {"id": "chandelier", "name": "리본 샹들리에", "kind": "wall", "tier": 1, "file": "assets/room/chandelier.webp", "w": 93, "h": 94}, {"id": "moonlight", "name": "달 구름 조명", "kind": "wall", "tier": 1, "file": "assets/room/moonlight.webp", "w": 96, "h": 79}, {"id": "mobile", "name": "별 모빌", "kind": "wall", "tier": 1, "file": "assets/room/mobile.webp", "w": 78, "h": 87}, {"id": "tablelamp", "name": "분홍 스탠드", "kind": "prop", "tier": 0, "file": "assets/room/tablelamp.webp", "w": 62, "h": 83}, {"id": "floorlamp", "name": "리본 장스탠드", "kind": "prop", "tier": 1, "file": "assets/room/floorlamp.webp", "w": 59, "h": 154}, {"id": "heartdeco", "name": "하트 장식", "kind": "wall", "tier": 0, "file": "assets/room/heartdeco.webp", "w": 58, "h": 73}, {"id": "frame1", "name": "하트 액자", "kind": "wall", "tier": 0, "file": "assets/room/frame1.webp", "w": 61, "h": 73}, {"id": "frame2", "name": "코끼리 액자", "kind": "wall", "tier": 0, "file": "assets/room/frame2.webp", "w": 76, "h": 76}, {"id": "frame3", "name": "구름 액자", "kind": "wall", "tier": 0, "file": "assets/room/frame3.webp", "w": 44, "h": 54}, {"id": "calendar", "name": "달력", "kind": "wall", "tier": 0, "file": "assets/room/calendar.webp", "w": 61, "h": 96}, {"id": "clock", "name": "리본 시계", "kind": "wall", "tier": 0, "file": "assets/room/clock.webp", "w": 62, "h": 80}, {"id": "wallshelf", "name": "코끼리 선반", "kind": "wall", "tier": 1, "file": "assets/room/wallshelf.webp", "w": 157, "h": 82}, {"id": "hangplant", "name": "걸이 화분", "kind": "wall", "tier": 0, "file": "assets/room/hangplant.webp", "w": 51, "h": 98}, {"id": "plantpot", "name": "리본 화분", "kind": "prop", "tier": 0, "file": "assets/room/plantpot.webp", "w": 73, "h": 101}, {"id": "flowershelf", "name": "꽃 선반", "kind": "wall", "tier": 1, "file": "assets/room/flowershelf.webp", "w": 122, "h": 71}, {"id": "bluerug", "name": "파란 꽃 러그", "kind": "rug", "tier": 1, "file": "assets/room/bluerug.webp", "w": 172, "h": 81}, {"id": "tulip", "name": "튤립 화병", "kind": "prop", "tier": 0, "file": "assets/room/tulip.webp", "w": 61, "h": 115}, {"id": "bigplant", "name": "큰 화분", "kind": "prop", "tier": 1, "file": "assets/room/bigplant.webp", "w": 80, "h": 121}, {"id": "flowerstool", "name": "꽃 테이블", "kind": "furn", "tier": 1, "file": "assets/room/flowerstool.webp", "w": 98, "h": 70}, {"id": "pinkstool", "name": "분홍 의자", "kind": "furn", "tier": 0, "file": "assets/room/pinkstool.webp", "w": 62, "h": 68}, {"id": "pinkbox", "name": "하트 상자", "kind": "prop", "tier": 0, "file": "assets/room/pinkbox.webp", "w": 67, "h": 57}, {"id": "teddy", "name": "곰돌이 인형", "kind": "prop", "tier": 0, "file": "assets/room/teddy.webp", "w": 65, "h": 74}, {"id": "cloudrug", "name": "구름 러그", "kind": "rug", "tier": 0, "file": "assets/room/cloudrug.webp", "w": 77, "h": 48}, {"id": "quilt", "name": "누빔 하트 러그", "kind": "rug", "tier": 0, "file": "assets/room/quilt.webp", "w": 64, "h": 53}, {"id": "sidetable", "name": "하트 협탁", "kind": "furn", "tier": 0, "file": "assets/room/sidetable.webp", "w": 52, "h": 57}, {"id": "ottoman", "name": "분홍 오토만", "kind": "furn", "tier": 0, "file": "assets/room/ottoman.webp", "w": 56, "h": 53}, {"id": "globe", "name": "지구본", "kind": "prop", "tier": 0, "file": "assets/room/globe.webp", "w": 48, "h": 61}, {"id": "mirror", "name": "스탠드 거울", "kind": "prop", "tier": 0, "file": "assets/room/mirror.webp", "w": 52, "h": 58}, {"id": "books", "name": "책 더미", "kind": "prop", "tier": 0, "file": "assets/room/books.webp", "w": 52, "h": 46}, {"id": "boxes", "name": "선물 상자", "kind": "prop", "tier": 0, "file": "assets/room/boxes.webp", "w": 53, "h": 61}, {"id": "lantern", "name": "작은 랜턴", "kind": "prop", "tier": 0, "file": "assets/room/lantern.webp", "w": 34, "h": 37}];
 var TIERS = [
   {name:'보통',     w:60, dup:4,  buy:true},
@@ -1525,9 +1525,9 @@ setTimeout(wxAuto,1500); setInterval(wxAuto,10*60000);
 })();
 
 /* 업데이트 공지: 항상 최신 공지 하나만 보여요. 새 공지를 올릴 때는 NOTICE의 id를 바꾸면 다시 떠요 */
-var NOTICE={id:'2026-10-04m', date:'2026.10.04', title:'업데이트 안내', items:[
+var NOTICE={id:'2026-10-04n', date:'2026.10.04', title:'업데이트 안내', items:[
   '꾸미기 버튼을 누르면 코끼리 아래에 입고 있는 것, 위치·크기 바꾸기 메뉴가 떠요',
-  '새 머리 장식 10종과 의상 12종이 추가됐어요! 뽑기와 옷장에서 만나요',
+  '새 머리 장식 8종과 의상 10종이 추가됐어요! 뽑기와 옷장에서 만나요',
   '요리창에 도감이 생겼어요! 아직 못 만든 요리는 ❓로 나와요',
   '마당에 🛒 슈퍼 버튼이 생겼어요! 재료를 사 와서 합쳐 요리해요 (밀가루, 치즈도 있어요)',
   '요리에서 재료 2개를 합쳐 새 메뉴를 만들 수 있어요 (재료 합치기)',

diff --git a/sw.js b/sw.js
@@ -1,5 +1,5 @@
 /* 코순이 키우기 서비스 워커 — VERSION은 빌드할 때 바뀝니다 */
-const VERSION='67f9e09ef7';
+const VERSION='bd0b19253a';
 const CACHE='kosuni-'+VERSION;
 const CORE=['./','index.html','manifest.webmanifest','pwa/icon-192.png','pwa/icon-512.png','pwa/apple-touch-icon.png',
   'assets/idle.webp','assets/sad.webp','assets/sleep.webp','assets/eat.webp','assets/angry.webp','assets/joy.webp','assets/surprise.webp'];
